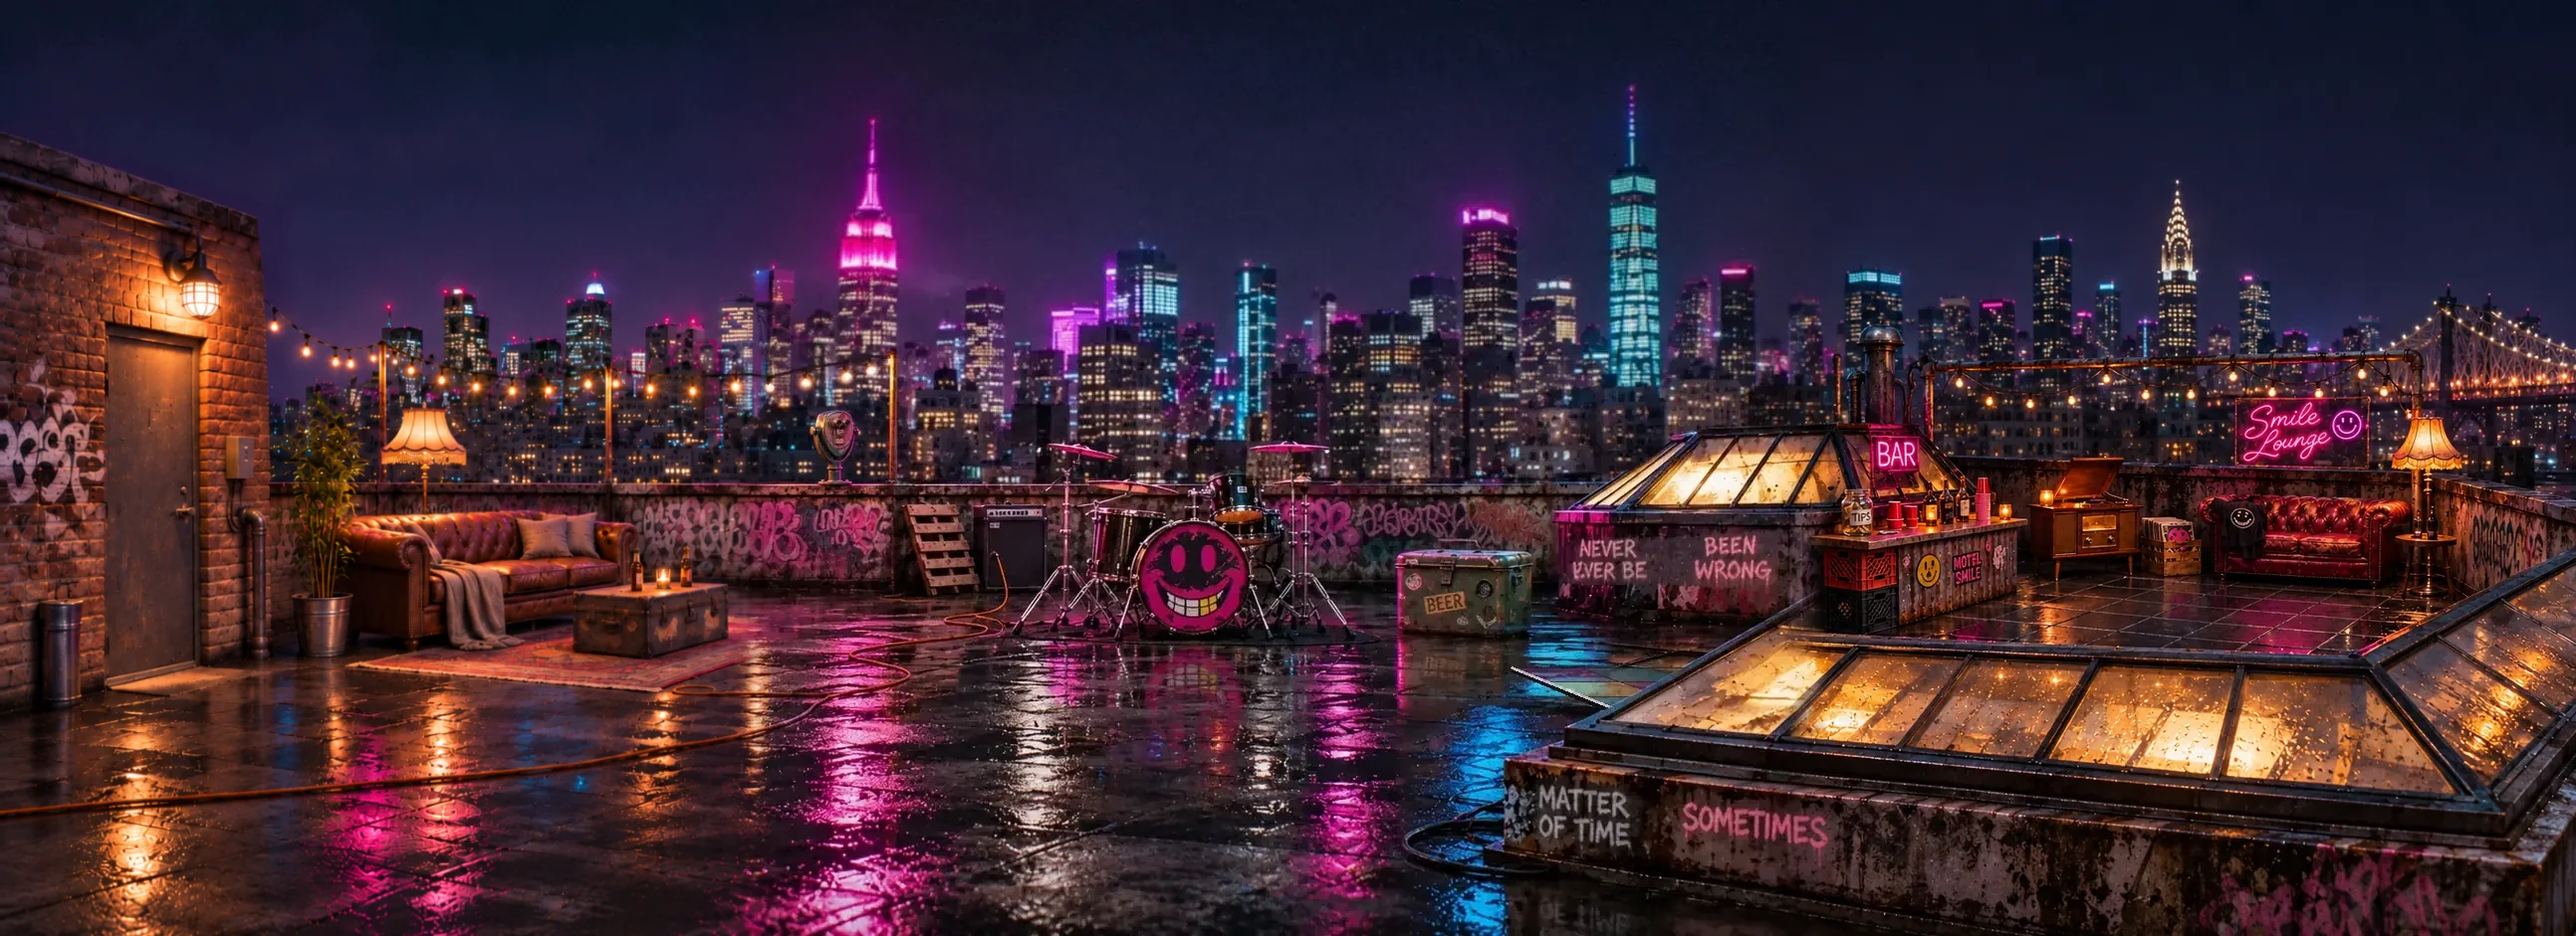
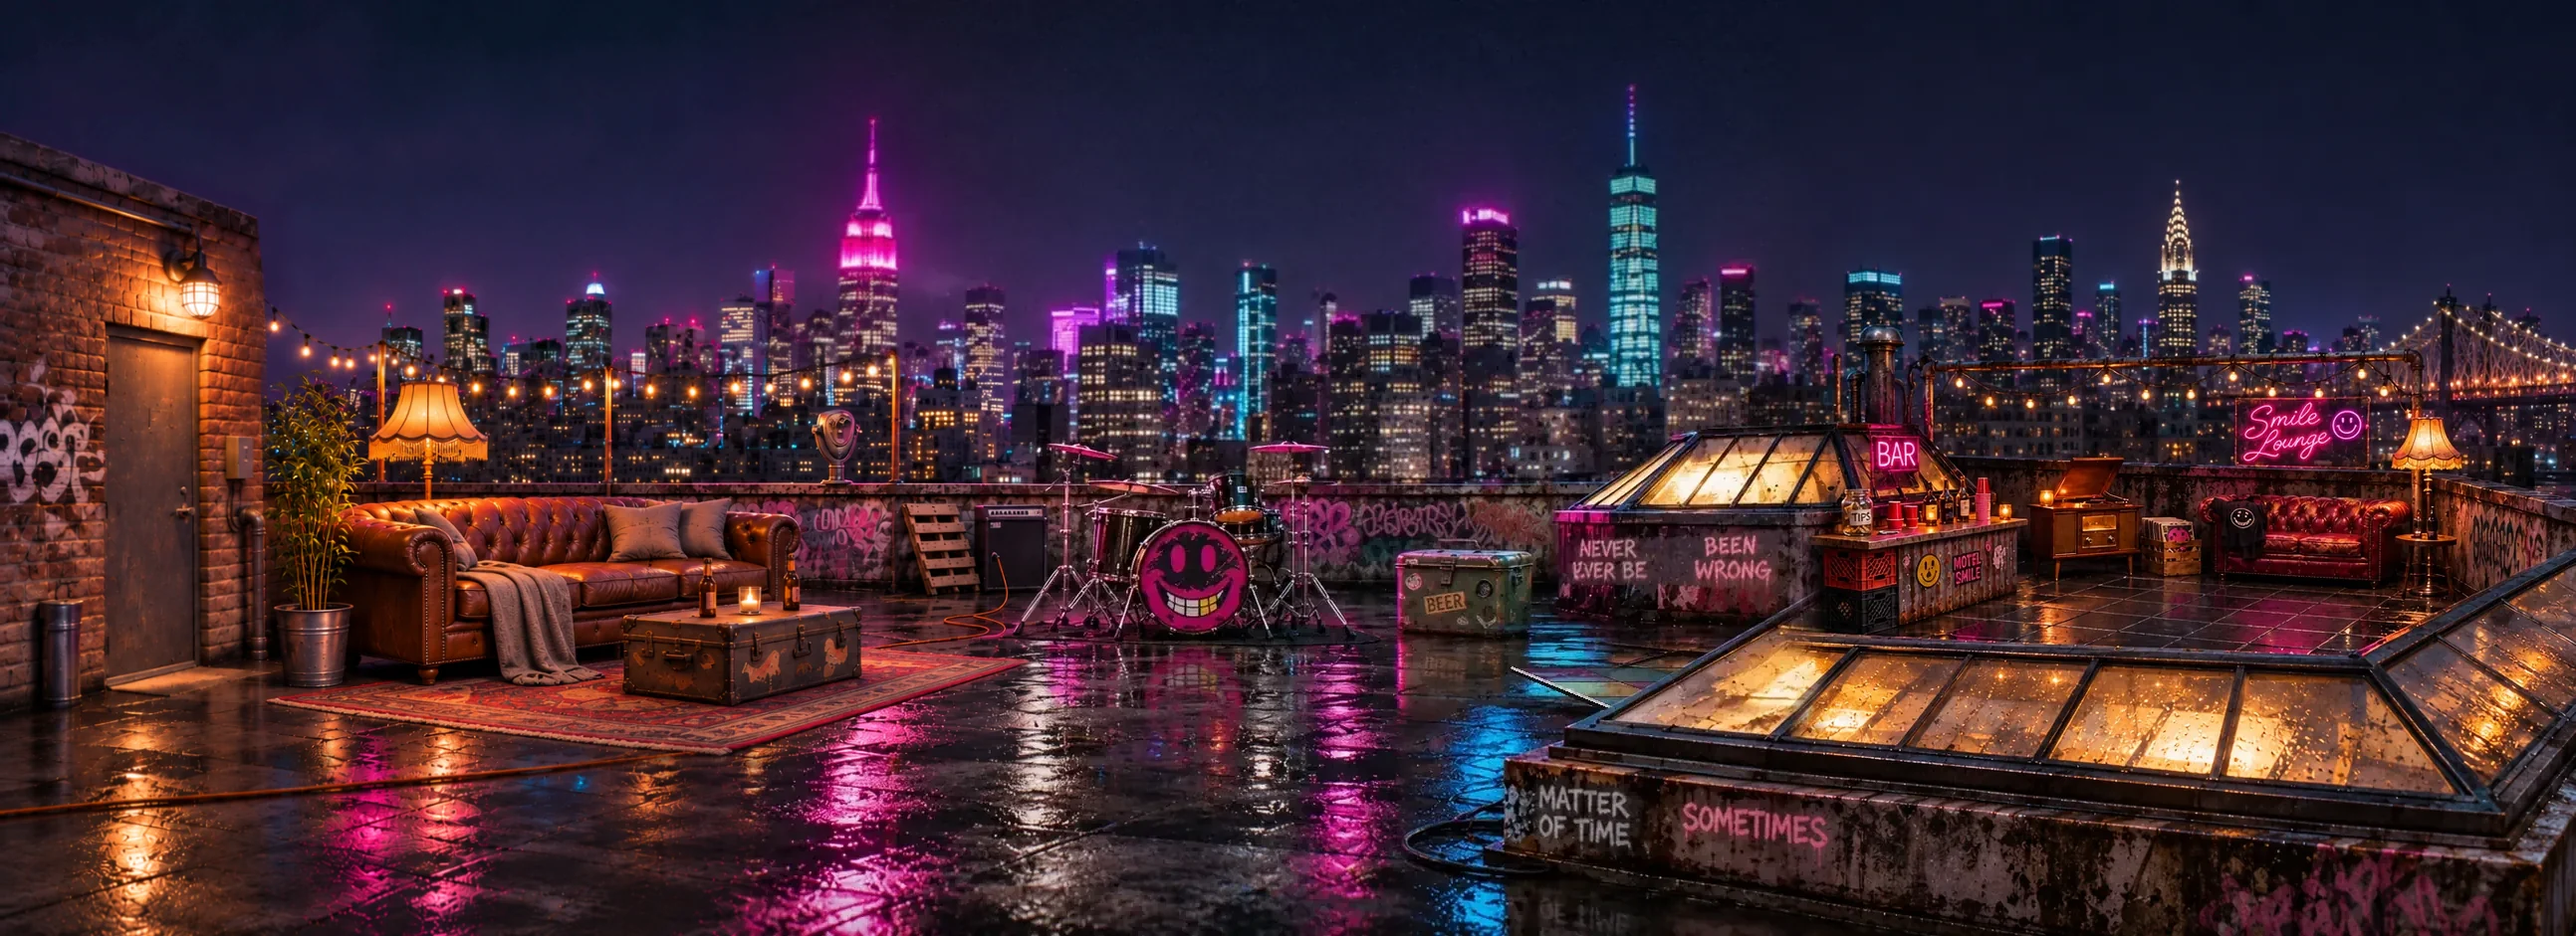
Roof: sitting area scaled up ~1.4x to match the drum kit and band
Claude-Session: https://claude.ai/code/session_011gssdMsenVXumrh9a32rRB

Changed region(s): [[0.0928, 0.3698, 0.402, 0.8321]]

diff --git a/index.html b/index.html
@@ -2479,7 +2479,7 @@ body.gg-on .lg-panel,body.gg-on .lg-tag,body.gg-on .lg-hint,body.gg-on .lg-swipe
   function render(c){
     seo(c);
     const hints=c.site&&c.site.showSetupHints;
-    $("stage").style.backgroundImage=`url("${"img/roof-v2.webp?v=1"}")`; /* wide roof with the lounge (2412x941); content.json hero is the old 1672 plate */
+    $("stage").style.backgroundImage=`url("${"img/roof-v2.webp?v=2"}")`; /* wide roof with the lounge (2412x941); content.json hero is the old 1672 plate */
     const m=c.music,f=m.featured;
     const sub=[f.status,f.length].filter(Boolean).join(" · ");
     $("t-listen").textContent=f.title+" ▸"; $("t-listen-sub").textContent=sub;
